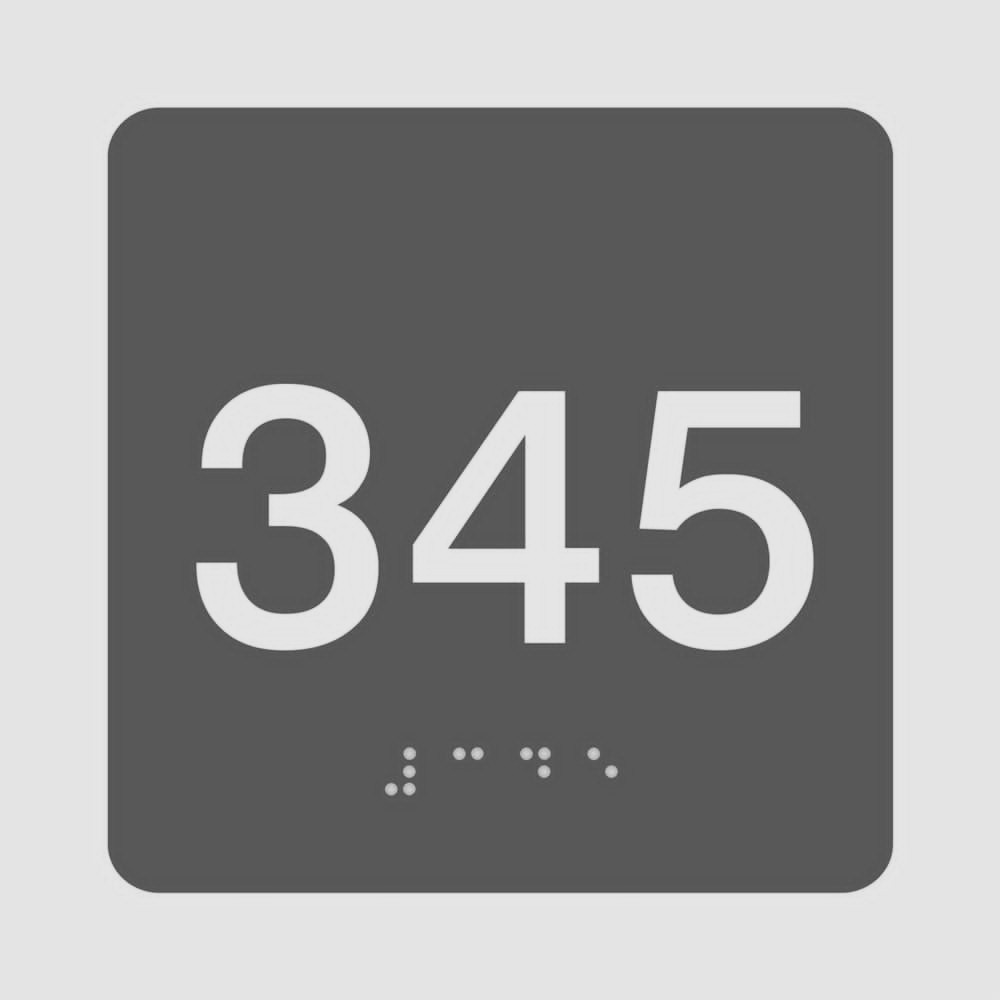
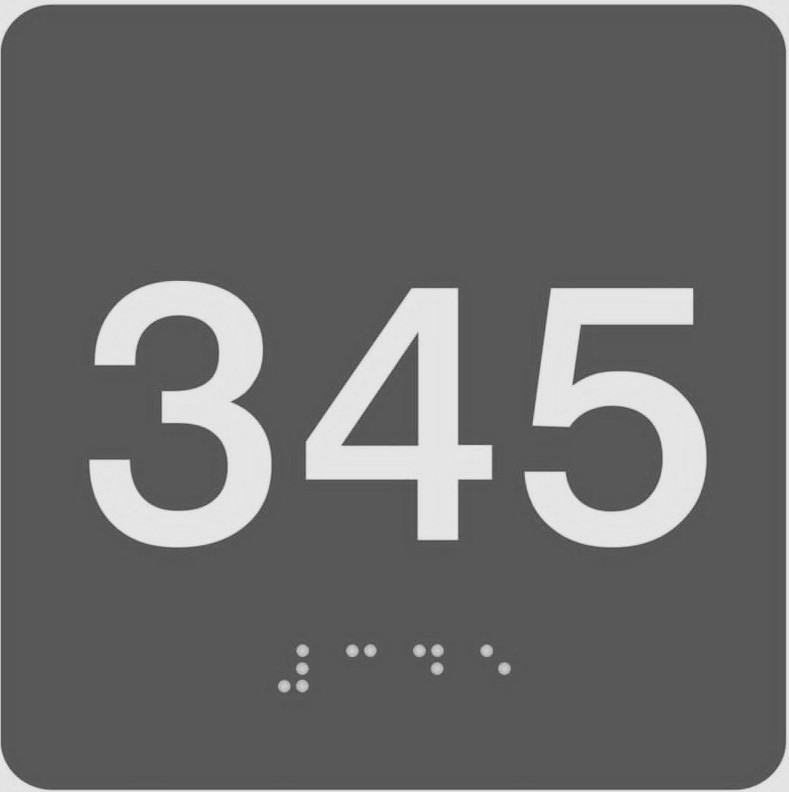
Foto aanpassen + bordjes veranderen door bewegwijzering

diff --git a/Feel-The-Taste/src/api/producten.js b/Feel-The-Taste/src/api/producten.js
@@ -27,7 +27,7 @@ export const producten = [
     id: 4,
     foto1: 'bb1.jpg',
     foto2: 'bb2.jpg',
-    alt: 'Afbeelding van een braille bordje voor slechtzienden',
+    alt: 'Afbeelding van braille bewegwijzering voor slechtzienden',
     naam: 'products.4.naam',
     beschrijving: 'products.4.beschrijving',
   },
@@ -95,19 +95,19 @@ ongeacht hun visuele beperkingen. Zet de eerste stap naar een inclusieve eeterva
     id: 4,
     foto1: 'bb1.jpg',
     foto2: 'bb2.jpg',
-    alt: 'Afbeelding van een braille bordje voor slechtzienden',
-    naam: 'Braille bordje voor slechtzienden',
-    beschrijving: 'Verbeter de toegankelijkheid van je restaurant met onze braille bordjes, ' +
-  'speciaal ontworpen voor slechtziende en blinde klanten. Deze bordjes zorgen ervoor dat gasten moeiteloos ' +
+    alt: 'Afbeelding van braille bewegwijzering voor slechtzienden',
+    naam: 'Braille bewegwijzering voor slechtzienden',
+    beschrijving: 'Verbeter de toegankelijkheid van je restaurant met onze braille bewegwijzering, ' +
+  'speciaal ontworpen voor slechtziende en blinde klanten. Deze bewegwijzering zorgt ervoor dat gasten moeiteloos ' +
   'belangrijke informatie kunnen lezen en zelfstandig hun weg kunnen vinden. ' +
 
-  'Onze braille bordjes bieden: ' +
+  'Onze braille bewegwijzering biedt: ' +
 
   '• Duidelijke braillemarkeringen – Intuïtief en gemakkelijk te lezen voor blinden en slechtzienden. ' + 
   '• Duurzaam en stijlvol – Gemaakt van hoogwaardige materialen die lang meegaan. ' + 
   '• Veelzijdig inzetbaar – Perfect voor menukaarten, tafelnummers en wegwijzers. ' + 
 
-  'Met braille bordjes bied je een gastvrije en inclusieve horeca-ervaring. ' + 
+  'Met braille bewegwijzering bied je een gastvrije en inclusieve horeca-ervaring. ' + 
   'Maak je restaurant toegankelijker en laat elke gast genieten van een zorgeloze maaltijd!',
   },
 ];
